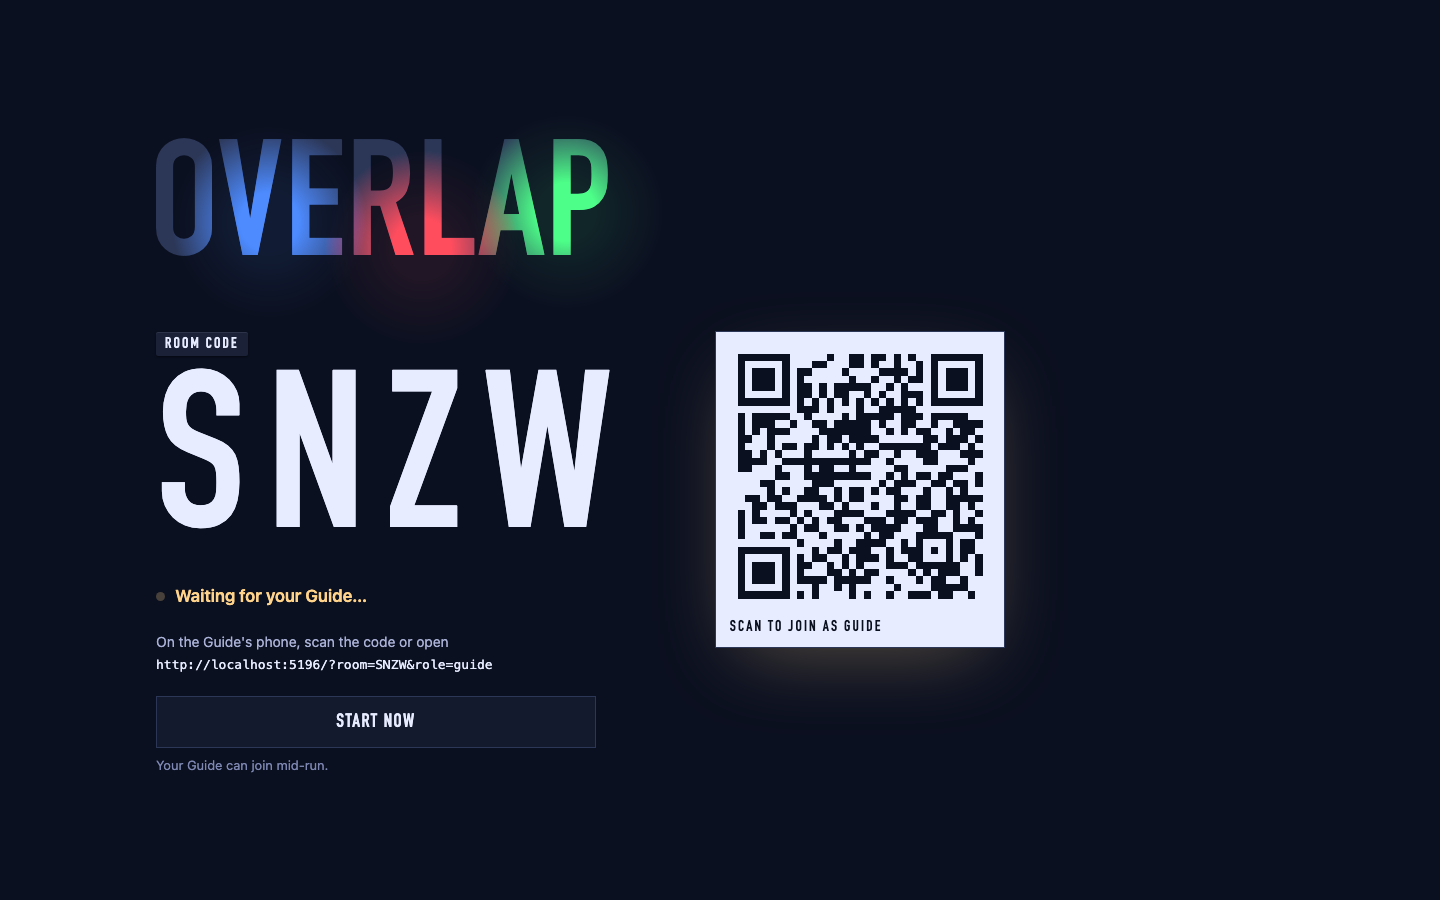
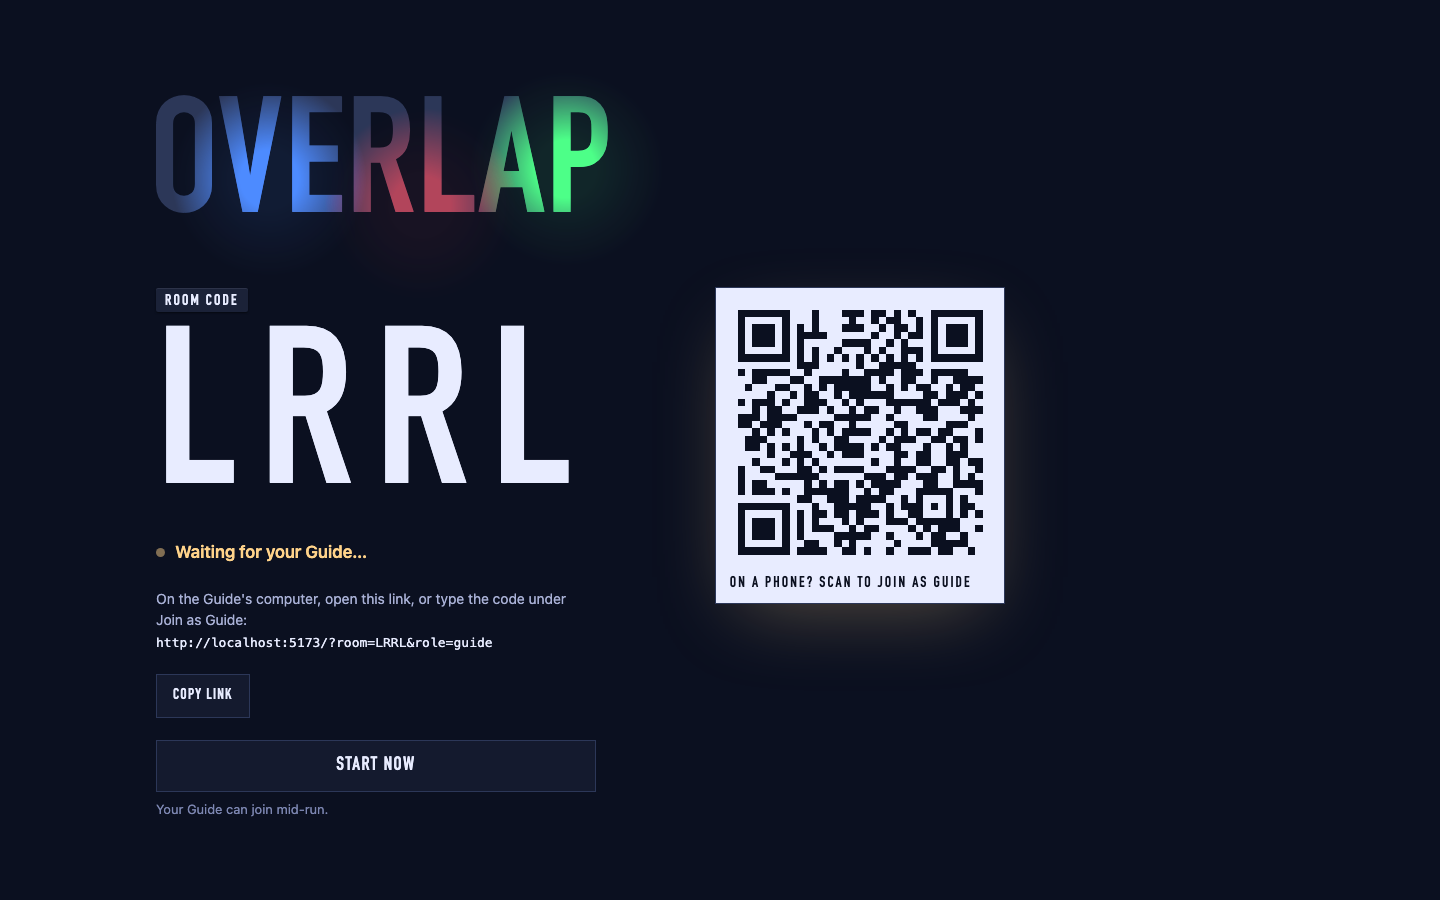
Runner's tutorial pointer only marks tiles they can see; two computers first
The runner's coach used to point at the substation and the exit in
total darkness, giving away what the guide should be telling them.
The lobby now leads with a copyable link for a second computer and
keeps the QR code for phones.

Assisted-By: Claude Opus 5.5

diff --git a/src/title.ts b/src/title.ts
@@ -119,7 +119,7 @@ export function showTitle(root: HTMLElement, start: Start): void {
 
   const actions = el("section", { className: "ov-actions" },
     el("p", { className: "ov-pitch", textContent: "A city in blackout. One of you walks the dark with a lantern. The other runs the grid from the control room." }),
-    el("div", { className: "ov-run" }, runnerBtn, el("p", { className: "ov-help", textContent: "Opens a room. Your Guide joins from a phone." })),
+    el("div", { className: "ov-run" }, runnerBtn, el("p", { className: "ov-help", textContent: "Opens a room. Your Guide joins from a second computer, a phone, or another tab." })),
     form,
     el("a", { className: "ov-local", href: "?local=1", textContent: "Try it solo: both roles on one screen" }),
   );
@@ -188,16 +188,23 @@ export function showTitle(root: HTMLElement, start: Start): void {
       if (connected) setTimeout(begin, 600);
     });
 
+    // Two computers is the best way to play, so the link gets a one-click copy; the QR code is for phones.
+    const copy = el("button", { className: "ov-btn ov-copy", type: "button", textContent: "Copy link" });
+    copy.addEventListener("click", async () => {
+      try { await navigator.clipboard.writeText(link); copy.textContent = "Copied. Send it to your Guide"; }
+      catch { copy.textContent = "Select the link above and copy it"; }
+    });
     wrap.classList.add("lobby");
     body.replaceChildren(
       el("section", { className: "ov-room" },
         tape("Room code"),
         codeEl,
         status,
-        el("p", { className: "ov-hint" }, "On the Guide's phone, scan the code or open ", el("span", { className: "ov-link", textContent: link })),
+        el("p", { className: "ov-hint" }, "On the Guide's computer, open this link, or type the code under Join as Guide:", el("span", { className: "ov-link", textContent: link })),
+        copy,
         el("div", { className: "ov-run" }, startNow, el("p", { className: "ov-help", textContent: "Your Guide can join mid-run." })),
       ),
-      el("figure", { className: "ov-plate" }, qr, el("figcaption", { textContent: "Scan to join as Guide" })),
+      el("figure", { className: "ov-plate" }, qr, el("figcaption", { textContent: "On a phone? Scan to join as Guide" })),
     );
     startNow.focus({ preventScroll: true });
   });
@@ -294,6 +301,7 @@ const CSS = `
 @media (prefers-reduced-motion: no-preference) { .ov-status:not(.ok)::before { animation: ov-breathe 1.2s ease-in-out infinite alternate; } }
 @keyframes ov-breathe { to { opacity: .25; } }
 .ov-hint { margin: 0; color: var(--dim); font-size: 14px; }
+.ov-copy { align-self: flex-start; min-height: 44px; padding: 0 16px; font-size: 15px; }
 .ov-link { display: block; margin-top: 4px; font: 500 13px/1.4 var(--mono); color: var(--ink); word-break: break-all; user-select: all; }
 .ov-plate { margin: 0; justify-self: start; display: flex; flex-direction: column; gap: 12px; padding: 14px 14px 12px; background: var(--ink);
   box-shadow: 0 0 0 1px var(--edge), 0 24px 80px -24px rgba(255, 211, 138, .35); }
@@ -310,7 +318,7 @@ const CSS = `
   .ov-plate { justify-self: center; }
   .ov.lobby .ov-body { display: flex; flex-direction: column; gap: 20px; }
   .ov-room { display: contents; }
-  .ov-room > .ov-tape { order: 1; } .ov-code { order: 2; } .ov-plate { order: 3; align-self: flex-start; } .ov-status { order: 4; } .ov-hint { order: 5; } .ov-room > .ov-run { order: 6; }
+  .ov-room > .ov-tape { order: 1; } .ov-code { order: 2; } .ov-plate { order: 3; align-self: flex-start; } .ov-status { order: 4; } .ov-hint { order: 5; } .ov-copy { order: 5; } .ov-room > .ov-run { order: 6; }
   .ov-qr { width: min(200px, 56vw) !important; }
 }
 `;

diff --git a/src/tutorial.ts b/src/tutorial.ts
@@ -16,6 +16,8 @@ export type TutorCtx = {
   seen: boolean; // guide: runner on camera
   filterInView: Vec | null;
   unseenDrone: Vec | null;
+  /** Whether this player can see tile p. The runner's pointer never marks a tile that's still dark. */
+  visible: (p: Vec) => boolean;
 };
 
 type Step = { text: string; target?: (c: TutorCtx) => Vec | undefined; done: (c: TutorCtx) => boolean; when?: (c: TutorCtx) => boolean };
@@ -31,8 +33,8 @@ const TUTORIAL: Record<Role, Step[]> = {
     { text: "Your Guide sees the whole city, but sees you only under a lit streetlight. Press Space (or tap yourself) to flare and show them where you are.", target: (c) => c.runner, done: (c) => c.flared },
     { text: "Talk to your Guide. Their pings show up even in the dark: head where they point.", done: (c) => c.pinged || c.moved >= 14 },
     { text: "A bridge crosses the canal here, but only in magenta light. Red lantern + blue streetlight = magenta. Ask for blue!", target: (c) => bridge(c), when: (c) => !!bridge(c) && near(c.runner, bridge(c)!, 4), done: (c) => c.bridgeOpen || c.powered > 0 },
-    { text: "Cross, then find the substation ⚡. Powering it restores the block.", target: (c) => sub(c), done: (c) => c.powered > 0 },
-    { text: "The block is back on and the exit is lit. Go!", target: (c) => c.level.exit, done: () => false },
+    { text: "Cross, then find the substation ⚡. You can't see it, but your Guide can: follow their pings.", target: (c) => sub(c), done: (c) => c.powered > 0 },
+    { text: "The block is back on and the exit is lit. Ask your Guide the way, then go!", target: (c) => c.level.exit, done: () => false },
   ],
   guide: [
     { text: "You run the grid. You see the city and its drones, but the Runner only on camera: under a lit streetlight or in a powered block. Ask them to flare.", target: (c) => c.runner, done: (c) => c.flared || c.seen },
@@ -88,7 +90,8 @@ export class Tutor {
       }
       step = this.shown;
     }
-    const t = step?.target?.(c);
+    const t0 = step?.target?.(c);
+    const t = t0 && c.visible(t0) ? t0 : undefined;
     this.pointer.setVisible(!!t);
     if (t && (this.pointer.getData("tx") !== t.x || this.pointer.getData("ty") !== t.y)) {
       // Re-seat the bounce over the new target tile.

diff --git a/src/scenes/Guide.ts b/src/scenes/Guide.ts
@@ -270,7 +270,7 @@ export class GuideScene extends Phaser.Scene {
     // The coach only knows what the guide knows: where the runner was last seen.
     this.tutor.update({
       level: this.level, runner: this.lastSeenPos, moved: 0, ...this.coach, lampsOn: this.lightsOn.size, powered: this.powered.size,
-      seen: this.seen, bridgeOpen: false, filterInView: null, unseenDrone: warned ? warned.tile : null,
+      seen: this.seen, bridgeOpen: false, filterInView: null, unseenDrone: warned ? warned.tile : null, visible: () => true,
     });
     if (!this.seen) this.ghostLabel.setText(`last seen ${Math.round((time - this.lastSeenAt) / 1000)}s ago`);
   }

diff --git a/src/scenes/Runner.ts b/src/scenes/Runner.ts
@@ -387,6 +387,7 @@ export class RunnerScene extends Phaser.Scene {
       bridgeOpen: this.level.gates.some((g) => g.kind === "bridge" && reveals(at(g), g.color)),
       filterInView: this.level.filters.find((f) => at(f) && f.color !== this.lantern) ?? null,
       unseenDrone: null,
+      visible: (p) => at(p) !== 0,
     });
 
     const glow = this.level.substations.filter((s) => this.powered.has(s.id)).map((s) => s.block);

diff --git a/README.md b/README.md
@@ -27,8 +27,8 @@ Each substation the Runner reaches powers its block for good, moves the checkpoi
 
 ## How to play
 
-1. On a laptop, open the game and press **Play as Runner**. A 4-letter room code and a QR code appear.
-2. On a phone, scan the QR code, or open the game and type the code under **Join as Guide**.
+1. On one computer, open the game and press **Play as Runner**. A 4-letter room code appears.
+2. On a second computer, open the link (there's a **Copy link** button), or type the code under **Join as Guide**. Two computers play best. A phone works too: scan the QR code. So does a second browser tab.
 3. Talk to each other. That's the game.
 
 No second device? Open [`?local=1`](https://overlap.richardsun.workers.dev/?local=1) to get both roles side by side in one window.

diff --git a/docs/WRITEUP.md b/docs/WRITEUP.md
@@ -3,7 +3,7 @@
 ## How to access
 
 - **Play:** https://overlap.richardsun.workers.dev
-- Two devices: on a laptop press **Play as Runner**, then scan the QR code with a phone (the Guide). Or type the 4-letter code under **Join as Guide**.
+- Two computers play best: one presses **Play as Runner** and sends the link (or the 4-letter code) to the other, who joins as the Guide. A phone can join by QR code, and a second browser tab works too.
 - One screen: https://overlap.richardsun.workers.dev/?local=1 shows both roles side by side.
 - Runner: arrows / WASD, or tap a tile; Space flares. Guide: tap a tile to ping, tap a streetlight to switch it.
 - District 1 is a tutorial that walks each player through their role.
